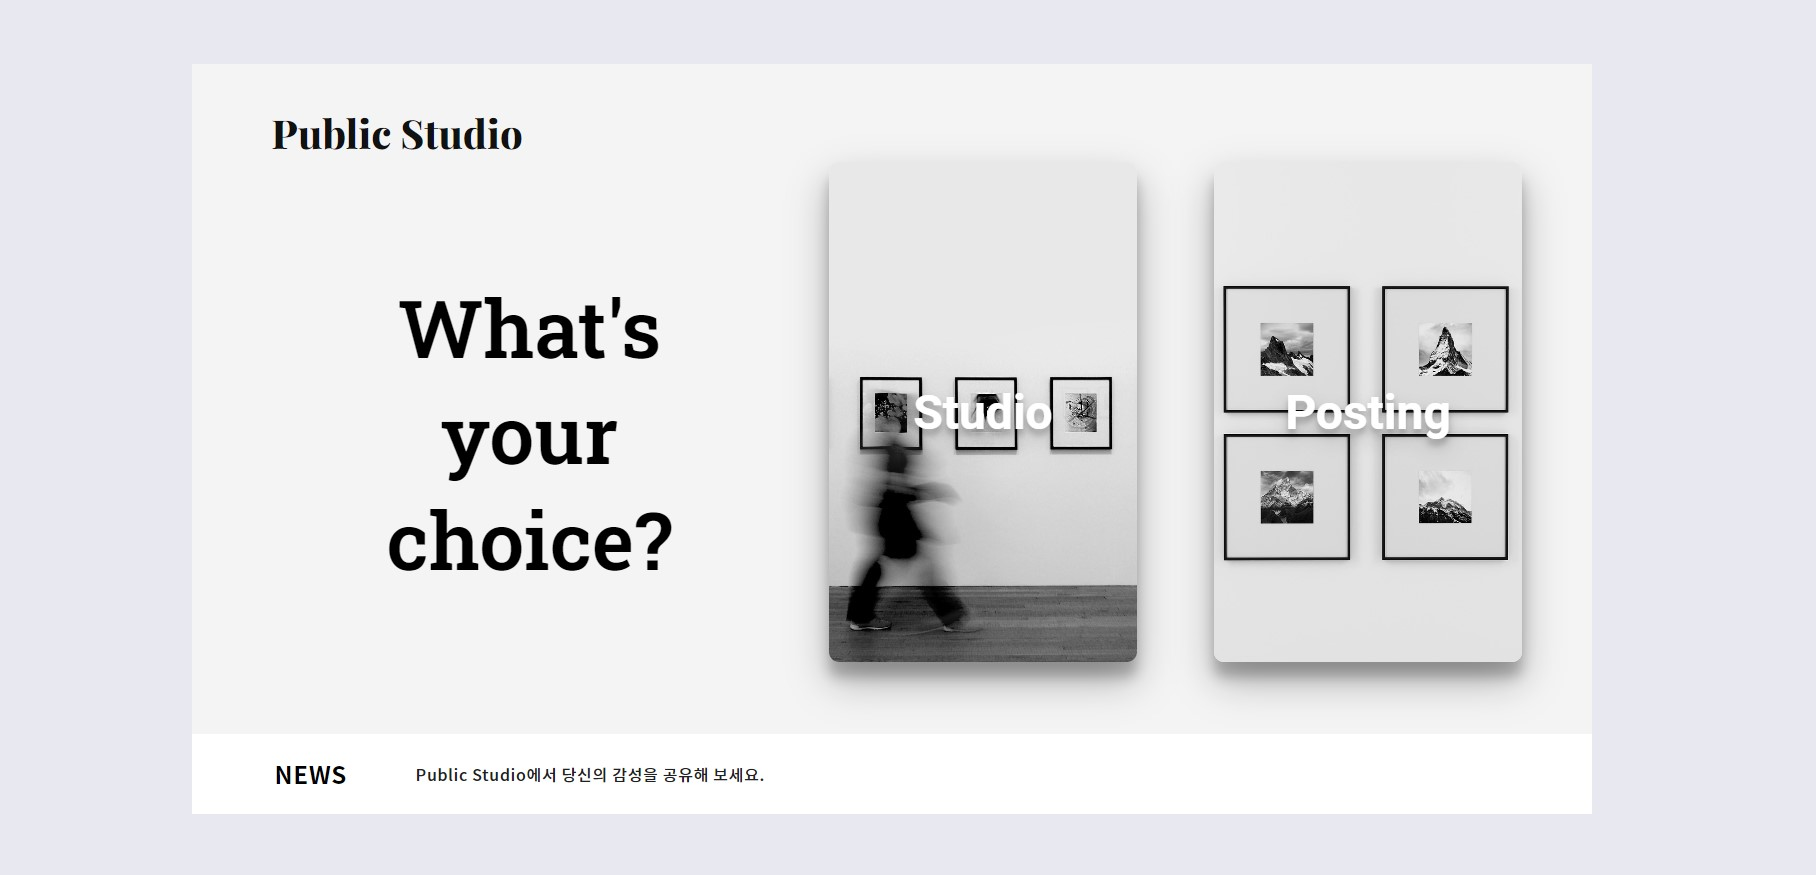
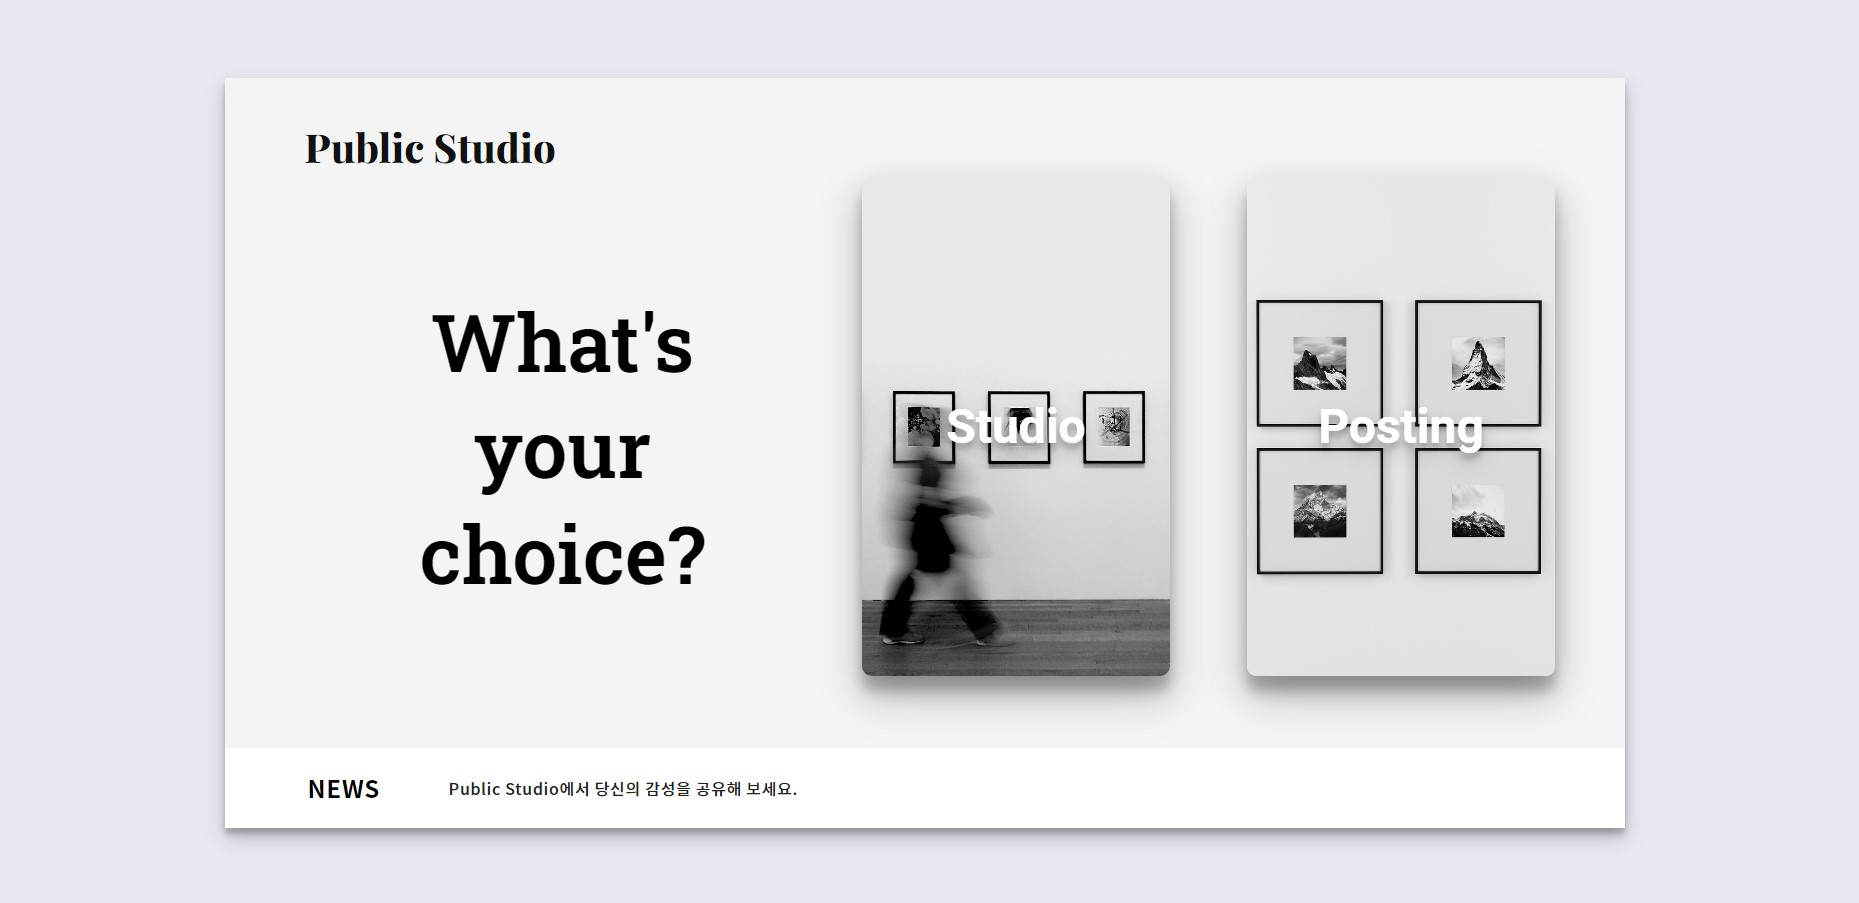
Docs : README.md 수정

diff --git a/src/redux/components/NewPostsList.jsx b/src/redux/components/NewPostsList.jsx
@@ -6,7 +6,7 @@ import { StNewPostList, StNewPostsCon } from "styles/Components";
 import { StFlexCon } from "styles/GlobalStyles";
 
 function NewPostsList({ isActive }) {
-  const { isLoading, isError, data } = useQuery("posts", getPostsAxios);
+  const { data } = useQuery("posts", getPostsAxios);
   // data가 할당되기 전 undefined일 경우 에러가 발생하지 않도록 핸들링
   if (!data) {
     return;

diff --git a/src/styles/Components.js b/src/styles/Components.js
@@ -125,9 +125,10 @@ export const StAirBox = styled.div`
 export const StLayout = styled.div`
   width: 100%;
   max-width: 1400px;
-  background-color: ${Colors.lightGray};
   height: 750px;
   position: relative;
+  background-color: ${Colors.lightGray};
+  box-shadow: 0 10px 20px rgba(0, 0, 0, 0.19), 0 6px 6px rgba(0, 0, 0, 0.23);
 `;
 
 //Button

diff --git a/README.md b/README.md
@@ -6,7 +6,7 @@
 
 #### 로그인 페이지
 
-## <img src="./public/img/main.jpg" />
+## <img src="./public/img/main.gif" />
 
 #### 메인 페이지
 
